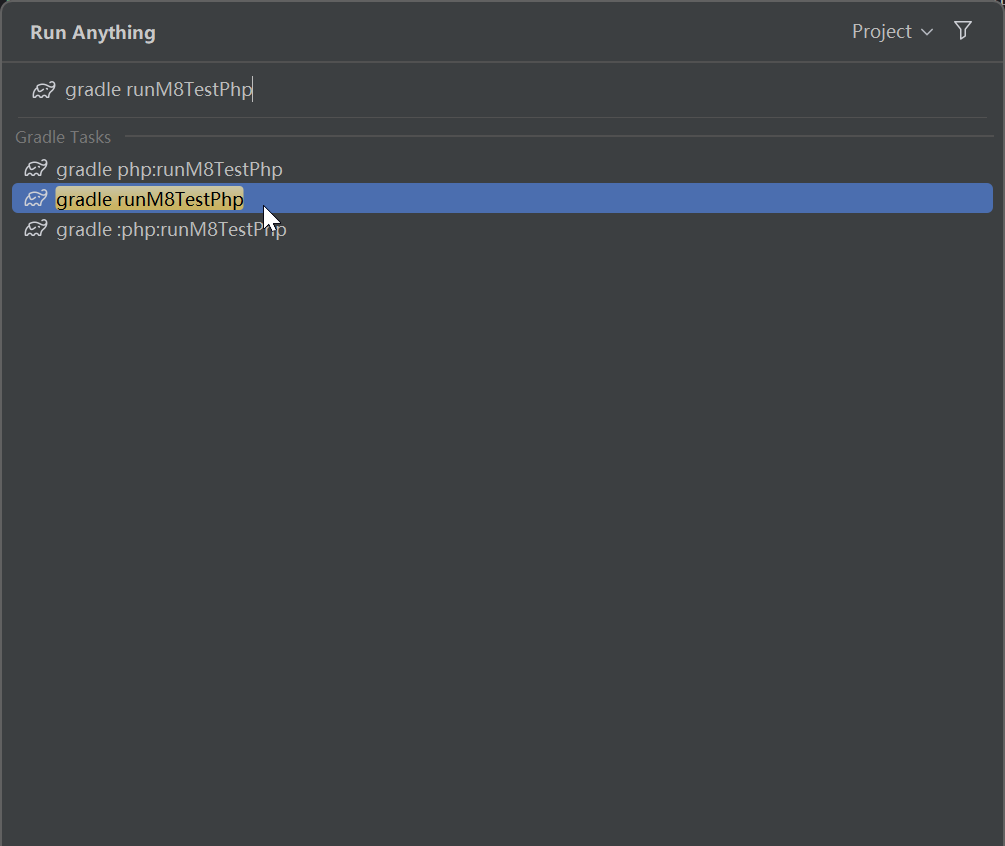
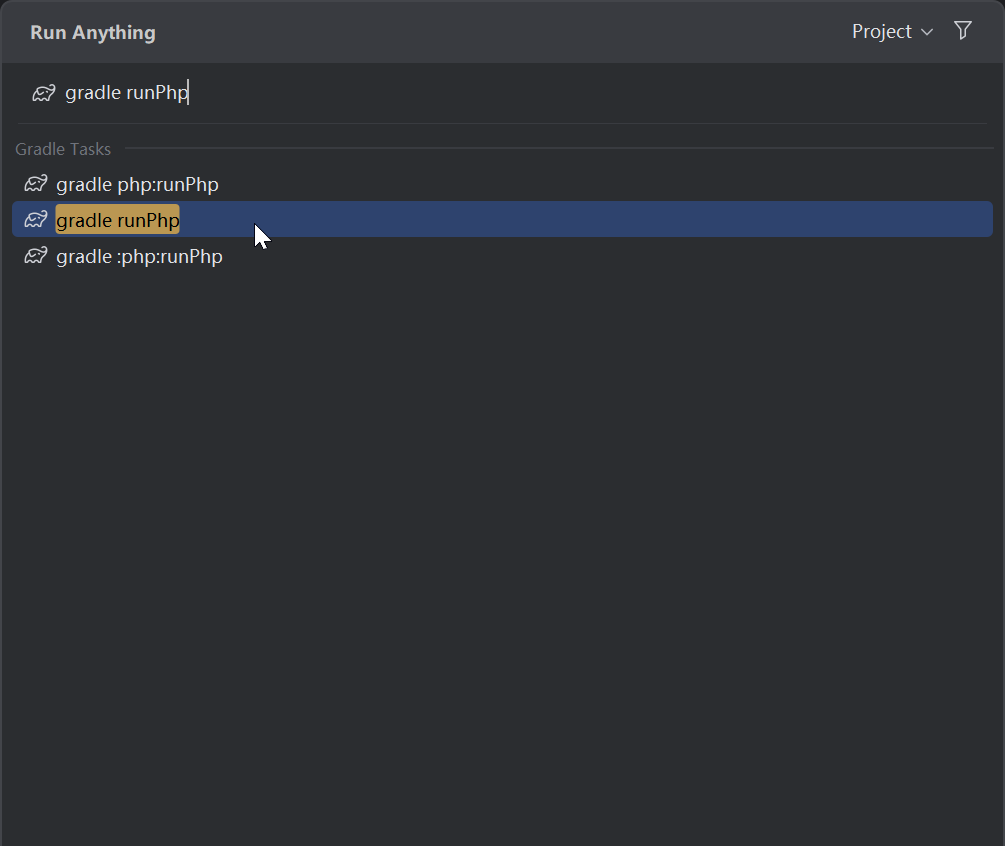
feat: 增加了UI相关代码

diff --git a/php/src/com/example/script/primary.php b/php/src/com/example/script/primary.php
@@ -1,14 +1,50 @@
 <?php
+
 // 必须使用相对于src目录的路径
 require_once 'com/example/tool/ToolB.php';
 
 // 使用 ToolB.php 中的 ToolB 类
 use com\example\tool\ToolB;
+use m8test_java\android\view\Gravity;
+use m8test_java\android\widget\Button;
+
+/** 通过use使用java中的类, 不能使用 use xxx as xxx 只能使use,因为下面这句话会被替换为 import android.widget.Button, 这样写的目的是有代码提示 **/
 
 // 声明全局变量, 如果不声明的话也可以但是没有代码提示
 global $console;
-global $accessibility;
-global $files;
-
 ToolB::methodB($console);
-$selector = $accessibility->createSelector();
+
+global $androidView;
+// 创建显示的界面内容
+$androidView->create(false, function ($frameLayout) {
+    // 添加下面的注释执行 $frameLayout 的类型, 这样才有代码提示
+    /** @var \m8test_java\android\widget\FrameLayout $frameLayout */
+    $context = $frameLayout->getContext();
+    /** @var \m8test_java\android\app\Activity $context */
+    $button = new Button($context);
+    $num = 0;
+    $button->setText("Hello");
+    $button->setOnClickListener(function ($view) use (&$num) {
+        $num = $num + 1;
+        /** @var \m8test_java\android\widget\Button $view */
+        $view->setText("hello" . $num);
+    });
+    global $reflectors;
+    // 在ui线程添加视图, 不然会导致崩溃
+    runOnUiThread(function ($frameLayout, $button, $reflectors) {
+        // 反射获取静态变量的值
+        /** @var \m8test_java\android\widget\FrameLayout\LayoutParams $view */
+        $wrapContent = $reflectors->reflect("android.widget.FrameLayout\$LayoutParams")->getField(null, function ($fieldSelector) {
+            /** @var $fieldSelector \m8test_java\com\m8test\script\core\api\reflect\FieldSelector */
+            $fieldSelector->setName("WRAP_CONTENT");
+        });
+        // 通过java方法创建java对象, 第一个参数是类名, 剩余的参数是构造方法需要的参数
+        $layoutParams = java("android.widget.FrameLayout\$LayoutParams", $wrapContent, $wrapContent);
+        // 双冒号获取静态常量的值, 居中显示按钮
+        $layoutParams->gravity = Gravity::CENTER;
+        $frameLayout->addView($button, $layoutParams);
+    }, $frameLayout, $button, $reflectors);
+});
+global $activity;
+// 启动界面
+$activity->start();

diff --git a/README.md b/README.md
@@ -7,19 +7,35 @@
 
 ## 📦 Gradle 任务说明
 
-1. **`buildM8TestPhp`**  
-   构建 M8Test Php 脚本项目源码，但不执行脚本。构建完成后，源码位于 `build/project` 目录。
+### 任务分组
 
-2. **`generatePhpGlobalVariables`**  
-   生成 Php 全局变量，提供代码提示功能。需连接安卓设备，建议在编写代码前执行一次。如果 `build.gradle.kts`
-   中的依赖组件更新，需重新执行。
+1. **`m8test-build`**  
+   M8Test构建相关任务组，包含`buildPhp`（构建Php项目）、`runPhp`（运行项目）等任务。
 
-3. **`handlePhpAndroidJar`**  
-   生成 Android API 的 Php 代码提示文件。此任务耗时较长，执行一次即可。成功后，Php 代码中将有 Android API
-   的代码提示。
+2. **`m8test-code-completion`**  
+   M8Test代码补全相关任务组，包含`generatePhpAllCodeCompletionFiles` （生成所有需要的代码补全文件）,
+   `generatePhpGlobalVariables`（生成全局变量代码补全文件）等任务。
 
-4. **`runM8TestPhp`**  
-   构建 M8Test Php 脚本项目，并将项目推送到已连接的安卓设备上运行。
+3. **`m8test-developmenet-environment`**  
+   M8Test开发环境相关任务组，包含`installDevelopmentEnvironment`（安装开发环境）、`installPhpPlugin`（安装语言插件）等任务。
+
+4. **`m8test-download`**  
+   M8Test资源下载相关任务组，包含`downloadPhpCodeTemplate`（下载示例代码模板）、`downloadPhpDocs`（下载文档）等任务。
+
+> 实际开发中主要关注构建任务和代码补全任务即可。
+
+### 常用任务
+
+| 任务名称                                                 | 任务分组                     | 功能描述                                                                                     |
+|------------------------------------------------------|--------------------------|------------------------------------------------------------------------------------------|
+| `generatePhpAllCodeCompletionFiles`                  | `m8test-code-completion` | 生成所有Php代码补全文件，会执行所有的 `generatePhpCodeXXXCodeCompletionFiles` 任务, 编写脚本之前执行一次此任务即可有代码提示功能。 |
+| `generatePhpGlobalVariables`                         | `m8test-code-completion` | 生成Php全局变量代码补全文件，提供IDE代码提示功能。需连接安卓设备，建议编写代码前执行一次，依赖更新后需重新执行。                              |
+| `generatePhpNormalAndroidCodeCompletionFiles`        | `m8test-code-completion` | 生成 Android API 的 Php 代码提示文件。成功后，Php 代码中将有 Android API 的代码提示。                             |
+| `generatePhpNormalDevelopmentKitCodeCompletionFiles` | `m8test-code-completion` | 生成 M8Test API 的 Php 代码提示文件。成功后，Php 代码中将有 M8Test API 的代码提示。                               |
+| `generatePhpComponentXXXCodeCompletionFiles`         | `m8test-code-completion` | 生成 XXX 组件 API 的 Php 代码提示文件。成功后，Php 代码中将有 XXX 组件 API 的代码提示。                               |
+| `buildPhp`                                           | `m8test-build`           | 构建M8Test Php脚本项目源码（不执行），构建结果位于`build/project`目录。                                         |
+| `runPhp`                                             | `m8test-build`           | 构建并将项目推送到已连接的安卓设备上运行。                                                                    |
+| `buildPhpApk`                                        | `m8test-build`           | 将M8Test Php脚本项目打包成APK文件。                                                                 |
 
 ---
 
@@ -28,14 +44,14 @@
 ### 方法一：使用快捷搜索
 
 1. 双击 `Ctrl` 键，打开搜索框。
-2. 输入 `gradle 任务名`，例如 `gradle runM8TestPhp`，然后按回车执行。
+2. 输入 `gradle 任务名`，例如 `gradle runPhp`，然后按回车执行。
 
    ![方法一示例](images/1.png)
 
 ### 方法二：通过 Gradle 面板
 
 1. 点击 Gradle 图标。
-2. 依次展开 `php` > `Tasks` > `m8test`。
+2. 依次展开 `lua` > `Tasks` > `m8test`。
 3. 双击需要执行的任务。
 
    ![方法二示例](images/2.png)
@@ -43,7 +59,7 @@
 ### 方法三：使用终端命令
 
 1. 按下快捷键 `Alt + F12` 打开终端。
-2. 输入命令 `./gradlew 任务名`，例如 `./gradlew runM8TestPhp`，然后按回车执行。
+2. 输入命令 `./gradlew 任务名`，例如 `./gradlew runPhp`，然后按回车执行。
 
    ![方法三示例](images/3.png)
 
@@ -51,23 +67,23 @@
 
 ## ⚙ 配置脚本项目
 
-脚本项目的配置位于 `php/build.gradle.kts` 文件中。您可以根据需要修改设备的 IP、ADB 端口等参数。该文件中包含详细的代码注释，供参考。
+脚本项目的配置位于 `lua/build.gradle.kts` 文件中。您可以根据需要修改设备的 IP、ADB 端口等参数。该文件中包含详细的代码注释，供参考。
 
 ---
 
 ## 🛠 项目开发流程
 
-1. **生成全局变量**  
-   执行 `generatePhpGlobalVariables` 任务，生成 Php 全局变量，提供代码提示功能。
+1. **生成代码提示文件**  
+   执行 `generatePhpAllCodeCompletionFiles` 任务，生成 Php 代码补全文件，提供代码提示功能。
 
-2. **生成 Android API 提示文件**  
-   执行 `handlePhpAndroidJar` 任务，生成 Android API 的 Php 代码提示文件。
-
-3. **连接日志服务**
+2. **连接日志服务**
 
    按下快捷键 `Alt + T`，依次选择 `M8Test` > `连接日志服务`。
 
-4. **编写并运行脚本**
+3. **编写并运行脚本**
 
-   编写代码并保存后，执行 `runM8TestPhp` 任务，即可在安卓设备上运行脚本项目。确保安卓设备已开启 ADB 调试。运行日志可在
+   编写代码并保存后，执行 `runPhp` 任务，即可在安卓设备上运行脚本项目。确保安卓设备已开启 ADB 调试。运行日志可在
    M8Test 日志面板中查看。
+
+4. **打包Apk**  
+   所有的脚本开发工作都完整后, 如果你需要打包成独立的apk可以执行 `buildPhpApk` 任务。
